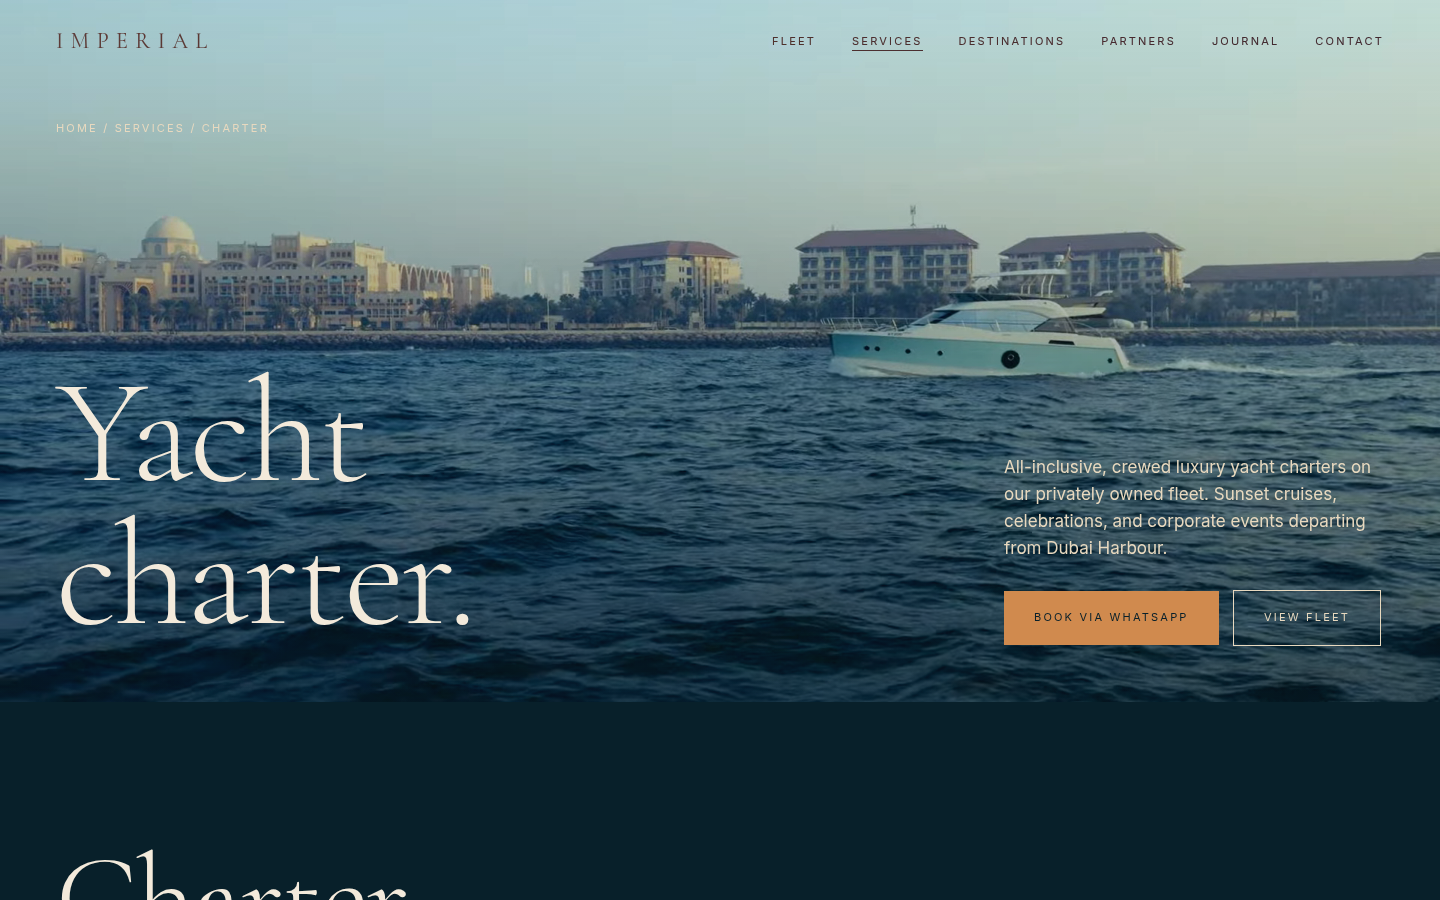
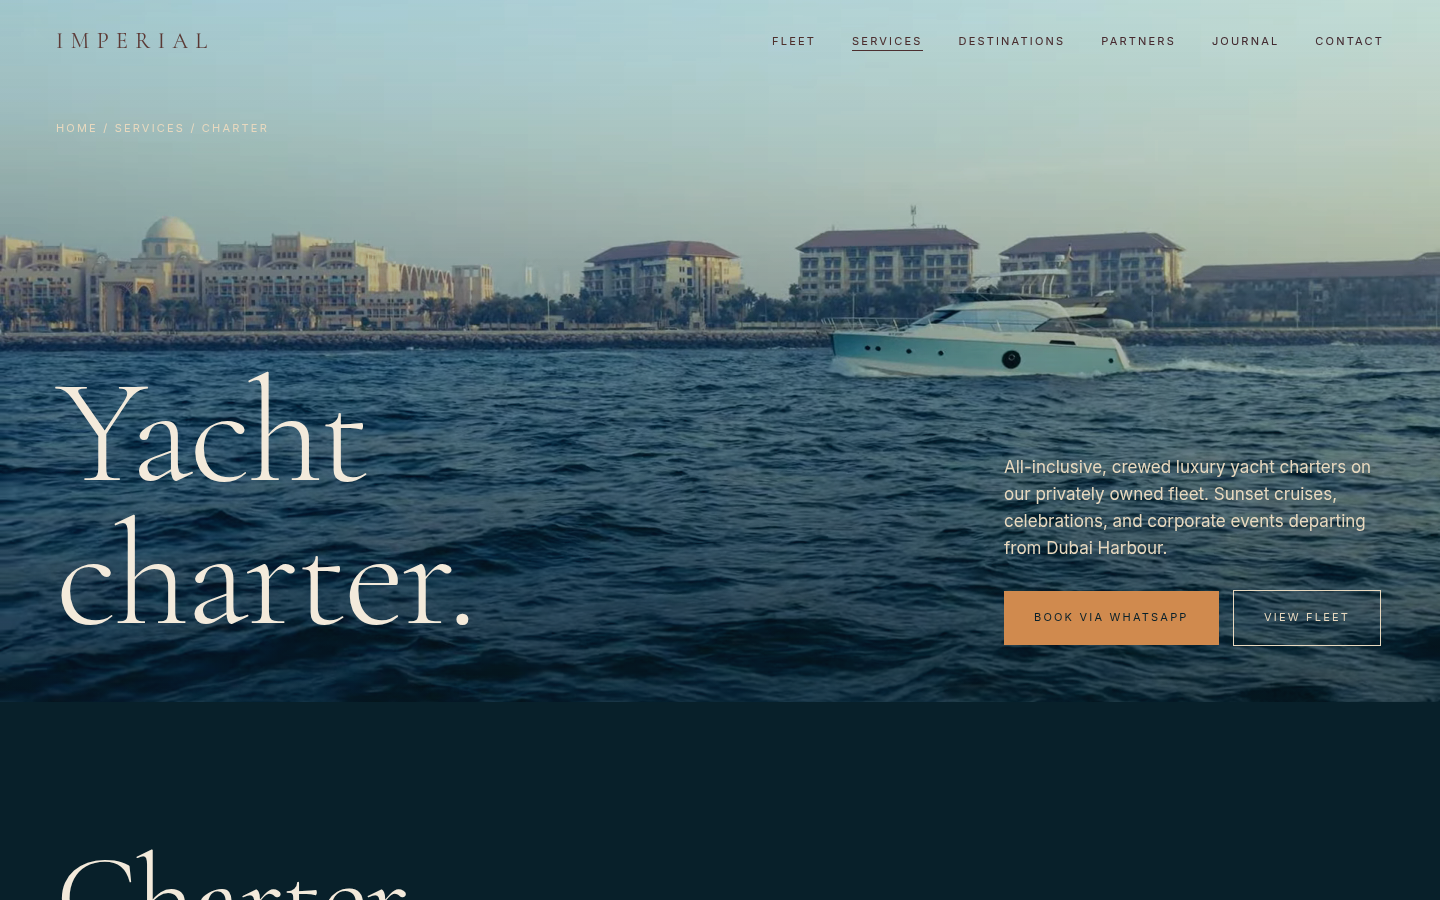
design(wake): README, design reviews v1-v3, clip posters, regen PNG after pages.css

diff --git a/design/README.md b/design/README.md
@@ -1,0 +1,56 @@
+# Wake: дизайн-код Imperial Yachting
+
+Wake это дизайн-код сайта imperialyachting.com: живое видео с наших лодок вместо картинок, крупная типографика, острые углы, линии 1px, без градиентов, теней и стекла. Только проверяемые факты. Подробно: [DESIGN-CODE.md](DESIGN-CODE.md), задача #46.
+
+## Файлы
+- `tokens.css`, `tokens.json`: токены (цвета sea, teal, sand, copper, light, шрифты, отступы).
+- `DESIGN-CODE.md`: принципы, палитра, типографика, компоненты.
+- `design-code.html` и `design-code-*.png`: визуальный гайд.
+- `prototype/RULES.md`: правила live-концепта, клипов, кадра и размеров.
+- `prototype/content/clips.json`: список клипов (пишет `prototype/scripts/make-clip.sh`), `prototype/content/fleet.json`: флот.
+- `prototype/index.html`: live-прототип главной (открывать через http-сервер).
+- `pages/`: макеты страниц (`index.html` + PNG), общий `pages.css`, генераторы `gen.py`, `gen2.py`, `gen3.py`, скриншоты `shot.py`, `shot2.py`, `shot3.py`, статьи блога `posts.json`.
+- `screens/`: ранние скриншоты live-концепта.
+- `reviews/`: скриншоты дизайн-ревью веток редизайна.
+- `clips/posters/`: постеры клипов JPG (до 300 КБ).
+
+## Клипы
+Имена файлов: `<clip>-<1920|960>.<mp4|webm>` и постер `<clip>.jpg`. 1920 до 5 МБ, 960 до 2 МБ. На сайте база клипов `NEXT_PUBLIC_CLIP_BASE_URL`, по умолчанию `/videos` (папка `public/videos/` в .gitignore, на VPS отдаёт nginx).
+
+12 клипов: hero-vd40-speed (hero), moneta-golden, vd40-aerial, evo43-run (fleet), ilia-harbour, ilia-onboard, misha-onboard (people), harbour-traffic, vd40-skyline, route-skyline, harbour-sunset, route-canal (section).
+
+## Макеты страниц
+Desktop 1440, mobile 390 или 360. `fold` первый экран, `full` вся страница.
+
+| Страница | Макет | PNG |
+|---|---|---|
+| `/services` | [HTML](pages/services/index.html) | [desktop-1440-fold](pages/services/desktop-1440-fold.png) · [desktop-1440-full](pages/services/desktop-1440-full.png) · [mobile-390-fold](pages/services/mobile-390-fold.png) · [mobile-390-full](pages/services/mobile-390-full.png) |
+| `/services/charter` | [HTML](pages/services-charter/index.html) | [desktop-1440-fold](pages/services-charter/desktop-1440-fold.png) · [desktop-1440-full](pages/services-charter/desktop-1440-full.png) · [mobile-360-fold](pages/services-charter/mobile-360-fold.png) · [mobile-360-full](pages/services-charter/mobile-360-full.png) |
+| `/services/yacht-management` | [HTML](pages/services-management/index.html) | [desktop-1440-fold](pages/services-management/desktop-1440-fold.png) · [desktop-1440-full](pages/services-management/desktop-1440-full.png) · [mobile-360-fold](pages/services-management/mobile-360-fold.png) · [mobile-360-full](pages/services-management/mobile-360-full.png) |
+| `/services/cinematography` | [HTML](pages/services-cinematography/index.html) | [desktop-1440-fold](pages/services-cinematography/desktop-1440-fold.png) · [desktop-1440-full](pages/services-cinematography/desktop-1440-full.png) · [mobile-360-fold](pages/services-cinematography/mobile-360-fold.png) · [mobile-360-full](pages/services-cinematography/mobile-360-full.png) |
+| `/services/brandwave` | [HTML](pages/services-brandwave/index.html) | [desktop-1440-fold](pages/services-brandwave/desktop-1440-fold.png) · [desktop-1440-full](pages/services-brandwave/desktop-1440-full.png) · [mobile-360-fold](pages/services-brandwave/mobile-360-fold.png) · [mobile-360-full](pages/services-brandwave/mobile-360-full.png) |
+| `/services/speedboat-transfer` | [HTML](pages/services-speedboat-transfer/index.html) | [desktop-1440-fold](pages/services-speedboat-transfer/desktop-1440-fold.png) · [desktop-1440-full](pages/services-speedboat-transfer/desktop-1440-full.png) · [mobile-360-fold](pages/services-speedboat-transfer/mobile-360-fold.png) · [mobile-360-full](pages/services-speedboat-transfer/mobile-360-full.png) |
+| `/fleet` | [HTML](pages/fleet/index.html) | [desktop-1440-fold](pages/fleet/desktop-1440-fold.png) · [desktop-1440-full](pages/fleet/desktop-1440-full.png) · [mobile-390-fold](pages/fleet/mobile-390-fold.png) · [mobile-390-full](pages/fleet/mobile-390-full.png) |
+| `/fleet/van-dutch-40` | [HTML](pages/fleet-vd-40/index.html) | [desktop-1440-fold](pages/fleet-vd-40/desktop-1440-fold.png) · [desktop-1440-full](pages/fleet-vd-40/desktop-1440-full.png) · [mobile-390-fold](pages/fleet-vd-40/mobile-390-fold.png) · [mobile-390-full](pages/fleet-vd-40/mobile-390-full.png) |
+| `/destinations` | [HTML](pages/destinations/index.html) | [desktop-1440-fold](pages/destinations/desktop-1440-fold.png) · [desktop-1440-full](pages/destinations/desktop-1440-full.png) · [mobile-390-fold](pages/destinations/mobile-390-fold.png) · [mobile-390-full](pages/destinations/mobile-390-full.png) |
+| `/destinations/palm-jumeirah` | [HTML](pages/destinations-palm-jumeirah/index.html) | [desktop-1440-fold](pages/destinations-palm-jumeirah/desktop-1440-fold.png) · [desktop-1440-full](pages/destinations-palm-jumeirah/desktop-1440-full.png) · [mobile-390-fold](pages/destinations-palm-jumeirah/mobile-390-fold.png) · [mobile-390-full](pages/destinations-palm-jumeirah/mobile-390-full.png) |
+| `/destinations/dock-and-dine-dubai` | [HTML](pages/destinations-dock-and-dine-dubai/index.html) | [desktop-1440-fold](pages/destinations-dock-and-dine-dubai/desktop-1440-fold.png) · [desktop-1440-full](pages/destinations-dock-and-dine-dubai/desktop-1440-full.png) · [mobile-390-fold](pages/destinations-dock-and-dine-dubai/mobile-390-fold.png) · [mobile-390-full](pages/destinations-dock-and-dine-dubai/mobile-390-full.png) |
+| `/about` | [HTML](pages/about/index.html) | [desktop-1440-fold](pages/about/desktop-1440-fold.png) · [desktop-1440-full](pages/about/desktop-1440-full.png) · [mobile-390-fold](pages/about/mobile-390-fold.png) · [mobile-390-full](pages/about/mobile-390-full.png) |
+| `/partners` | [HTML](pages/partners/index.html) | [desktop-1440-fold](pages/partners/desktop-1440-fold.png) · [desktop-1440-full](pages/partners/desktop-1440-full.png) · [mobile-390-fold](pages/partners/mobile-390-fold.png) · [mobile-390-full](pages/partners/mobile-390-full.png) |
+| `/blog` | [HTML](pages/blog/index.html) | [desktop-1440-fold](pages/blog/desktop-1440-fold.png) · [desktop-1440-full](pages/blog/desktop-1440-full.png) · [mobile-360-fold](pages/blog/mobile-360-fold.png) · [mobile-360-full](pages/blog/mobile-360-full.png) |
+| `/blog/<статья>` | [HTML](pages/blog-post/index.html) | [desktop-1440-fold](pages/blog-post/desktop-1440-fold.png) · [desktop-1440-full](pages/blog-post/desktop-1440-full.png) · [mobile-360-fold](pages/blog-post/mobile-360-fold.png) · [mobile-360-full](pages/blog-post/mobile-360-full.png) |
+| `/contact` | [HTML](pages/contact/index.html) | [desktop-1440-fold](pages/contact/desktop-1440-fold.png) · [desktop-1440-full](pages/contact/desktop-1440-full.png) · [mobile-360-fold](pages/contact/mobile-360-fold.png) · [mobile-360-full](pages/contact/mobile-360-full.png) |
+
+## Ревью
+- `reviews/v1-services-fleet-contact/`: services, fleet, contact (d = desktop, m = mobile).
+- `reviews/v2-contact/`: contact v2, 1440 и 360.
+- `reviews/v3-about-destinations-blog-partners/`: about, destinations, palm, dock-and-dine, blog, blog-post, partners, 1440 и 360.
+
+## Как перегенерировать
+Нужны python3, playwright и Chrome (`/usr/bin/google-chrome`).
+```
+cd design/pages
+python3 gen.py && python3 gen2.py && python3 gen3.py   # HTML
+python3 shot.py && python3 shot2.py && python3 shot3.py # PNG
+```
+`shot.py`: services, fleet, fleet-vd-40. `shot2.py`: destinations, palm, dock-and-dine, about, partners. `shot3.py`: blog, blog-post, contact, services-*. После правки `pages.css` перегенерировать все PNG.
